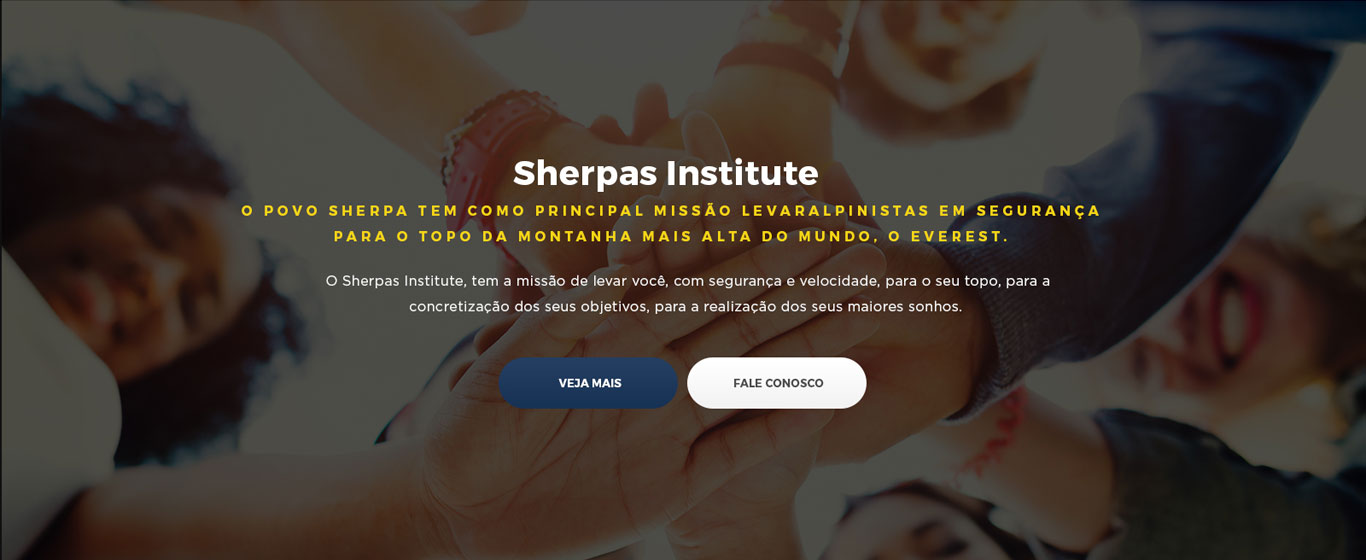
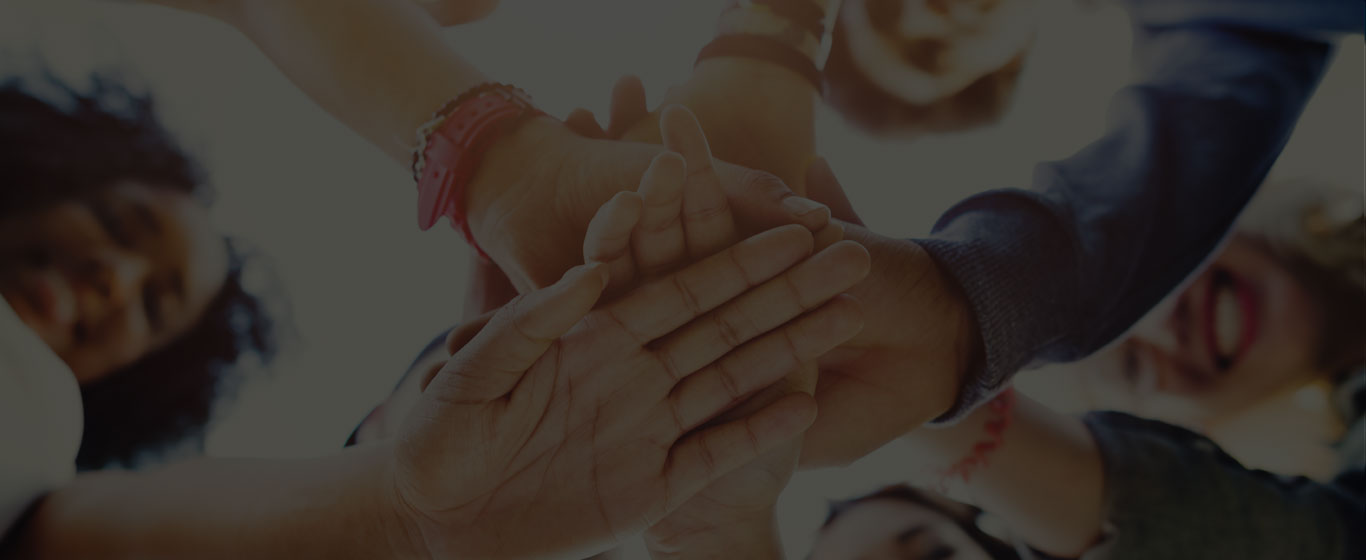
dev

diff --git a/index.html b/index.html
@@ -16,7 +16,9 @@
     
     <nav class="navbar navbar-expand-lg navbar-light">
       <div class="sp-container">
-        <a class="navbar-brand" href="#">SHERPAS</a>
+        <a class="navbar-brand" href="#">
+          <img src="images/logo-sherpas.png" alt="">
+        </a>
         <button class="navbar-toggler float-right" type="button" data-toggle="collapse" data-target="#menu" aria-controls="menu" aria-expanded="false" aria-label="Toggle navigation">
           <span class="navbar-toggler-icon"></span>
         </button>
@@ -45,22 +47,23 @@
       </div>
     </nav>
 
-    <header class="home">
-      <div class="sp-container text-center">
-        <h1 class="white-color">Sherpas Institute</h1>
+    <header class="home d-flex">
+      <div class="sp-container text-center align-self-center white-color">
+        <h1>Sherpas Institute</h1>
         <p class="yellow-color text-uppercase">
           Lorem ipsum dolor sit amet, consectetur adipisicing elit. Aspernatur nisi minima enim perspiciatis expedita beatae earum deleniti aperiam vel. Ex harum quod, dolorem hic illum sit unde fuga iste velit.
         </p>
-        <p class="white-color">
+        <p>
           Lorem ipsum dolor sit amet, consectetur adipisicing elit. Aspernatur nisi minima enim perspiciatis expedita beatae earum deleniti aperiam vel. Ex harum quod, dolorem hic illum sit unde fuga iste velit.
         </p>
+        <a href="" class="bt bg-dark-blue white-color">VEJA MAIS</a> <a href="" class="bt bg-white dark-gray-color">FALE CONOSCO</a>
       </div>
     </header>
 
     <section id="sct1">
       <div class="sp-container">
         <div class="sp-content">
-          <h1><span class="d-block">Sempre aqui para você</span>NOSSOS CURSOS</h1>
+          <h1 class="sp-title"><span class="d-block">Sempre aqui para você</span>NOSSOS CURSOS</h1>
           http://kenwheeler.github.io/slick/
           
           <div class="carousel-nossos-cursos">
@@ -77,9 +80,9 @@
 
     <section id="sct2">
       <div class="sp-container">
-        <div class="sp-content">
+        <div class="sp-content text-center">
           <p>ENTRE AGORA EM CONTATO E FAÇA SUCESSO NA SUA CARREIRA</p>
-          <a href="">CLIQUE AQUI</a>
+          <a href="" class="bt bg-yellow white-color">CLIQUE AQUI</a>
         </div>
       </div>
     </section>
@@ -87,7 +90,7 @@
     <section id="sct3">
       <div class="sp-container">
         <div class="sp-content">
-          <h1><span class="d-block">Tenha sucesso</span>DEPOIMENTOS</h1>
+          <h1 class="sp-title"><span class="d-block">Tenha sucesso</span>DEPOIMENTOS</h1>
         </div>
       </div>
     </section>
@@ -95,7 +98,7 @@
     <section id="sct4">
       <div class="sp-container">
         <div class="sp-content">
-          <h1><span class="d-block">Novidades do blog</span>ÚLTIMOS POSTS</h1>
+          <h1 class="sp-title"><span class="d-block">Novidades do blog</span>ÚLTIMOS POSTS</h1>
           <div class="row">
             <div class="col-lg-4">
               <img src="images/image-model.jpg" alt="" class="img-fluid">
@@ -129,6 +132,9 @@
               <p><b>title</b></p>
               <p>Lorem ipsum dolor sit amet, consectetur adipisicing elit.</p>
             </div>
+          </div>
+          <div class="text-center">
+            <a href="" class="bt bg-dark-blue white-color">VEJA TODOS OS POSTS</a>
           </div>
         </div>
       </div>

diff --git a/assets/css/main.css b/assets/css/main.css
@@ -1,1 +1,1 @@
-@font-face{font-family:'Noto Sans';src:url("../font/NotoSans.eot");src:url("../font/NotoSans.eot?#iefix") format("embedded-opentype"),url("../font/NotoSans.woff2") format("woff2"),url("../font/NotoSans.woff") format("woff"),url("../font/NotoSans.ttf") format("truetype");font-weight:normal;font-style:normal}.white-color{color:#fff}.yellow-color{color:#f3d51f}.text-uppercase{text-transform:uppercase}nav{background:#fff;border-bottom:1px solid #d6d1ce}@media (min-width: 992px){nav.navbar{padding:3rem 1rem}}header.home{min-height:560px;background-image:url("../../images/bg-header.jpg");background-position:center center;background-repeat:no-repeat;background-size:cover}.sp-container{margin:0 auto;width:900px}.sp-content{padding:80px 0}section{background:#fff}section#sct3{min-height:560px;background-image:url("../../images/bg-depoimentos.jpg");background-position:center center;background-repeat:no-repeat;background-size:cover}section#sct5{background:#4a6a91}@media (max-width: 768px){.sp-container{width:100%}}footer{background:#040404;color:#fff;padding:80px 0 20px 0}
+@font-face{font-family:'Noto Sans';src:url("../font/NotoSans.eot");src:url("../font/NotoSans.eot?#iefix") format("embedded-opentype"),url("../font/NotoSans.woff2") format("woff2"),url("../font/NotoSans.woff") format("woff"),url("../font/NotoSans.ttf") format("truetype");font-weight:normal;font-style:normal}.white-color{color:#fff !important}.yellow-color{color:#f7d418 !important}.dark-gray-color{color:#4d4d4d !important}.bg-dark-blue{background:#1f395c}.bg-white{background:#fff}.bg-yellow{background:#f7d418}.text-uppercase{text-transform:uppercase}.bt{text-align:center;text-decoration:none;display:inline-block;margin:0 5px 5px 0;padding:15px 35px;border-radius:50px;min-width:200px}nav{background:#fff;border-bottom:1px solid #d6d1ce}@media (min-width: 992px){nav.navbar{padding:1.3rem 1rem}nav.navbar .navbar-nav{padding:30px 0 0 0}}header.home{min-height:560px;background-image:url("../../images/bg-header.jpg");background-position:center center;background-repeat:no-repeat;background-size:cover}body{color:#4d4d4d}.sp-container{margin:0 auto;width:900px}.sp-content{padding:80px 0}section{background:#fff}section .sp-title{text-align:center;font-size:32px;position:relative;margin-bottom:32px}section .sp-title span{font-size:14px;color:#1f395c}section .sp-title:before,section .sp-title:after{content:'';width:50px;height:5px;position:absolute;top:69%}section .sp-title:before{left:50%;margin-left:-25%;background:url("../../images/title-before.png") no-repeat center center}section .sp-title:after{right:50%;margin-right:-25%;background:url("../../images/title-after.png") no-repeat center center}section#sct2{background:#eeeeee}section#sct3{min-height:560px;background-image:url("../../images/bg-depoimentos.jpg");background-position:center center;background-repeat:no-repeat;background-size:cover}section#sct5{background:#4a6a91}@media (max-width: 768px){.sp-container{width:100%}}footer{background:#040404;color:#fff;padding:80px 0 20px 0}

diff --git a/assets/scss/_content.scss b/assets/scss/_content.scss
@@ -1,4 +1,5 @@
 body {
+	color: $dark-gray;
 }
 
 b, strong {
@@ -17,11 +18,38 @@ b, strong {
 
 section {
 	background: $white;
+	.sp-title {
+		text-align:center;
+		font-size:32px;
+		position:relative;
+		margin-bottom:32px;
+		span {
+			font-size:14px;
+			color: $dark-blue;
+		}
+		&:before, &:after {
+			content:'';
+			width: 50px;
+			height: 5px;
+			position: absolute;
+			top: 69%;
+		}
+		&:before {
+			left:50%;
+			margin-left:-25%;
+			background: url('../../images/title-before.png') no-repeat center center;
+		}
+		&:after {
+			right:50%;
+			margin-right:-25%;
+			background: url('../../images/title-after.png') no-repeat center center;
+		}
+	}
 	&#sct1 {
 
 	}
 	&#sct2 {
-		
+		background: #eeeeee;
 	}
 	&#sct3 {
 		min-height:560px;

diff --git a/assets/scss/_utilities.scss b/assets/scss/_utilities.scss
@@ -1,13 +1,41 @@
-// color
+// text color
 .white-color {
-	color:$white;
+	color:$white!important;
 }
 
 .yellow-color {
-	color: #f3d51f;
+	color: $yellow!important;
+}
+
+.dark-gray-color {
+	color: $dark-gray!important;
+}
+
+// bg color
+.bg-dark-blue {
+	background:$dark-blue;
+}
+
+.bg-white {
+	background:$white;
+}
+
+.bg-yellow {
+	background:$yellow;
 }
 
 // font style
 .text-uppercase {
 	text-transform: uppercase;
+}
+
+// buttons
+.bt {
+	text-align: center;
+	text-decoration:none;
+	display:inline-block;
+	margin: 0 5px 5px 0;
+	padding: 15px 35px;
+	border-radius:50px;
+	min-width:200px;
 }

diff --git a/assets/scss/_nav.scss b/assets/scss/_nav.scss
@@ -25,7 +25,10 @@ nav {
 @media (min-width: 992px) {
 	nav {
 		&.navbar {
-	    padding: 3rem 1rem;
+	    padding: 1.3rem 1rem;
+	    .navbar-nav {
+		    padding: 30px 0 0 0;
+			}
 		}
 	}
 }

diff --git a/assets/scss/_variables.scss b/assets/scss/_variables.scss
@@ -1,1 +1,6 @@
-$white: rgb(255,255,255);
+// colors
+
+$white: rgb(255, 255, 255);
+$yellow: rgb(247, 212, 24);
+$dark-blue: rgb(31, 57, 92);
+$dark-gray: rgb(77, 77, 77);
